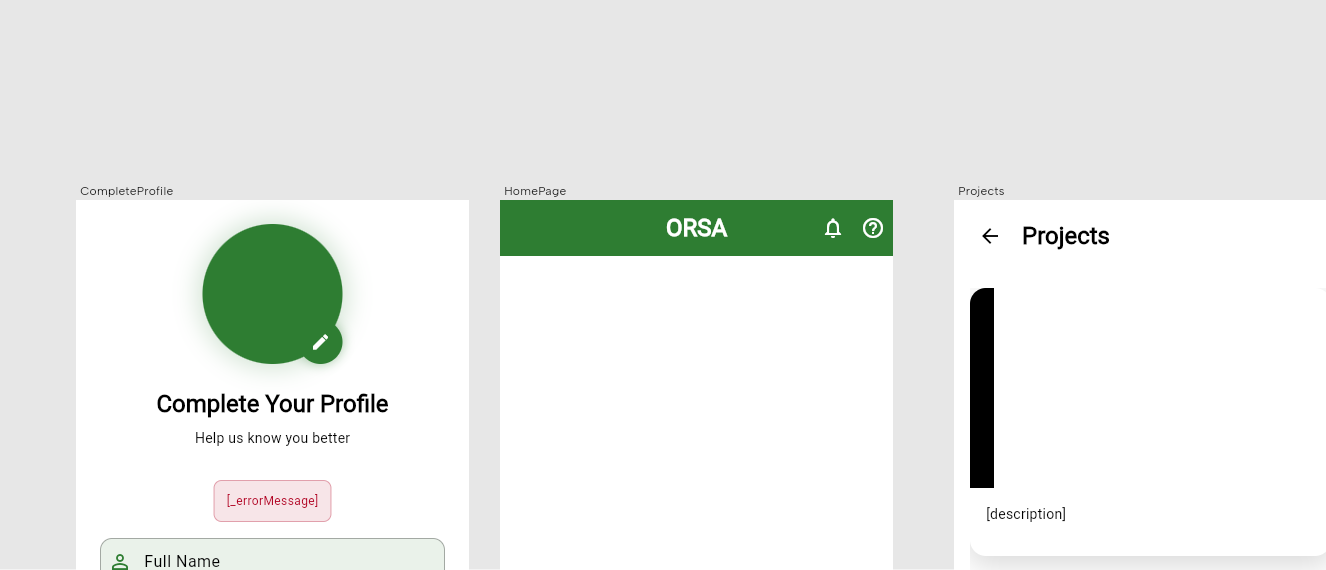
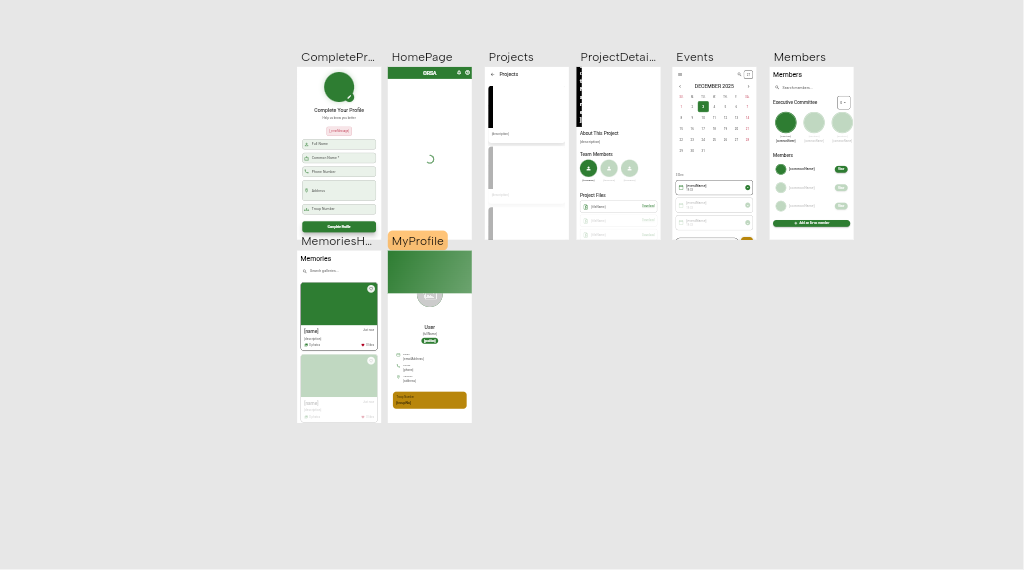
my profile page built

diff --git a/lib/pages/my_profile.dart b/lib/pages/my_profile.dart
@@ -1,0 +1,312 @@
+import 'package:flutter/material.dart';
+import 'package:nowa_runtime/nowa_runtime.dart';
+import 'package:supabase_flutter/supabase_flutter.dart';
+
+@NowaGenerated()
+class MyProfile extends StatefulWidget {
+  @NowaGenerated({'loader': 'auto-constructor'})
+  const MyProfile({super.key});
+
+  @override
+  State<MyProfile> createState() {
+    return _MyProfileState();
+  }
+}
+
+@NowaGenerated()
+class _MyProfileState extends State<MyProfile> {
+  late Future<Map<String, dynamic>?> profileFuture;
+
+  @override
+  void initState() {
+    super.initState();
+    profileFuture = _fetchCurrentUserProfile();
+  }
+
+  Future<Map<String, dynamic>?> _fetchCurrentUserProfile() async {
+    try {
+      final userId = Supabase.instance.client.auth.currentUser!.id;
+      if (userId == null) {
+        return null;
+      }
+      final response = await Supabase.instance.client
+          .from('profiles')
+          .select()
+          .eq('id', userId)
+          .single();
+      return response as Map<String, dynamic>;
+    } catch (e) {
+      return null;
+    }
+  }
+
+  @override
+  Widget build(BuildContext context) {
+    return Scaffold(
+      body: SafeArea(
+        child: FutureBuilder<Map<String, dynamic>?>(
+          future: profileFuture,
+          builder: (context, snapshot) {
+            if (snapshot.connectionState == ConnectionState.waiting) {
+              return Center(
+                child: CircularProgressIndicator(
+                  color: Theme.of(context).colorScheme.primary,
+                ),
+              );
+            }
+            if (!snapshot.hasData || snapshot.data == null) {
+              return Center(
+                child: Text(
+                  'Unable to load profile',
+                  style: Theme.of(context).textTheme.bodyLarge,
+                ),
+              );
+            }
+            final profile = snapshot.data;
+            final avatarUrl = profile?['avatar_url'] as String?;
+            final commonName = profile?['common_name'] as String? ?? 'User';
+            final fullName = profile?['full_name'] as String?;
+            final position = profile?['position'] as String? ?? '';
+            final userRole = profile?['user_role'] as String? ?? '';
+            final emailAddress = profile?['email_address'] as String?;
+            final phone = profile?['phone'] as String?;
+            final address = profile?['address'] as String?;
+            final troupNo = profile?['troup_no'] as String?;
+            return CustomScrollView(
+              slivers: [
+                SliverAppBar(
+                  expandedHeight: 200,
+                  pinned: true,
+                  backgroundColor: Theme.of(context).colorScheme.surface,
+                  flexibleSpace: FlexibleSpaceBar(
+                    background: Container(
+                      decoration: BoxDecoration(
+                        gradient: LinearGradient(
+                          begin: Alignment.topLeft,
+                          end: Alignment.bottomRight,
+                          colors: [
+                            Theme.of(context).colorScheme.primary,
+                            Theme.of(
+                              context,
+                            ).colorScheme.primary.withValues(alpha: 0.7),
+                          ],
+                        ),
+                      ),
+                    ),
+                  ),
+                ),
+                SliverToBoxAdapter(
+                  child: Padding(
+                    padding: const EdgeInsets.symmetric(horizontal: 24),
+                    child: Column(
+                      children: [
+                        Transform.translate(
+                          offset: const Offset(0, -60),
+                          child: Container(
+                            decoration: BoxDecoration(
+                              shape: BoxShape.circle,
+                              border: Border.all(
+                                color: Theme.of(context).colorScheme.surface,
+                                width: 4,
+                              ),
+                            ),
+                            child: avatarUrl != null
+                                ? CircleAvatar(
+                                    radius: 60,
+                                    backgroundImage: NetworkImage(avatarUrl!),
+                                  )
+                                : CircleAvatar(
+                                    radius: 60,
+                                    backgroundColor: Theme.of(
+                                      context,
+                                    ).colorScheme.primaryContainer,
+                                    child: Text(
+                                      commonName.isNotEmpty
+                                          ? commonName[0].toUpperCase()
+                                          : '?',
+                                      style: Theme.of(context)
+                                          .textTheme
+                                          .displayMedium
+                                          ?.copyWith(
+                                            color: Theme.of(
+                                              context,
+                                            ).colorScheme.onPrimaryContainer,
+                                          ),
+                                    ),
+                                  ),
+                          ),
+                        ),
+                        const SizedBox(height: 16),
+                        Text(
+                          commonName,
+                          style: Theme.of(context).textTheme.headlineSmall
+                              ?.copyWith(fontWeight: FontWeight.bold),
+                          textAlign: TextAlign.center,
+                        ),
+                        if (fullName != null && fullName!.isNotEmpty) ...[
+                          const SizedBox(height: 4),
+                          Text(
+                            fullName!,
+                            style: Theme.of(context).textTheme.bodyMedium
+                                ?.copyWith(
+                                  color: Theme.of(
+                                    context,
+                                  ).colorScheme.onSurfaceVariant,
+                                ),
+                            textAlign: TextAlign.center,
+                          ),
+                        ],
+                        const SizedBox(height: 8),
+                        Container(
+                          padding: const EdgeInsets.symmetric(
+                            horizontal: 12,
+                            vertical: 6,
+                          ),
+                          decoration: BoxDecoration(
+                            color: Theme.of(
+                              context,
+                            ).colorScheme.primaryContainer,
+                            borderRadius: BorderRadius.circular(20),
+                          ),
+                          child: Text(
+                            position.isNotEmpty ? position : userRole,
+                            style: Theme.of(context).textTheme.labelMedium
+                                ?.copyWith(
+                                  color: Theme.of(
+                                    context,
+                                  ).colorScheme.onPrimaryContainer,
+                                  fontWeight: FontWeight.w600,
+                                ),
+                          ),
+                        ),
+                        const SizedBox(height: 24),
+                        if (emailAddress != null ||
+                            phone != null ||
+                            address != null) ...[
+                          Container(
+                            padding: const EdgeInsets.all(16),
+                            decoration: BoxDecoration(
+                              color: Theme.of(
+                                context,
+                              ).colorScheme.surfaceContainerHighest,
+                              borderRadius: BorderRadius.circular(16),
+                            ),
+                            child: Column(
+                              children: [
+                                if (emailAddress != null &&
+                                    emailAddress!.isNotEmpty)
+                                  Padding(
+                                    padding: const EdgeInsets.only(bottom: 12),
+                                    child: _buildInfoRow(
+                                      context,
+                                      'Email',
+                                      emailAddress!,
+                                      Icons.email_outlined,
+                                    ),
+                                  ),
+                                if (phone != null && phone!.isNotEmpty)
+                                  Padding(
+                                    padding: const EdgeInsets.only(bottom: 12),
+                                    child: _buildInfoRow(
+                                      context,
+                                      'Phone',
+                                      phone!,
+                                      Icons.phone_outlined,
+                                    ),
+                                  ),
+                                if (address != null && address!.isNotEmpty)
+                                  _buildInfoRow(
+                                    context,
+                                    'Address',
+                                    address!,
+                                    Icons.location_on_outlined,
+                                  ),
+                              ],
+                            ),
+                          ),
+                          const SizedBox(height: 24),
+                        ],
+                        if (troupNo != null && troupNo!.isNotEmpty)
+                          Container(
+                            width: double.infinity,
+                            padding: const EdgeInsets.all(16),
+                            decoration: BoxDecoration(
+                              color: Theme.of(
+                                context,
+                              ).colorScheme.secondaryContainer,
+                              borderRadius: BorderRadius.circular(16),
+                            ),
+                            child: Column(
+                              crossAxisAlignment: CrossAxisAlignment.start,
+                              children: [
+                                Text(
+                                  'Troop Number',
+                                  style: Theme.of(context).textTheme.labelMedium
+                                      ?.copyWith(
+                                        color: Theme.of(
+                                          context,
+                                        ).colorScheme.onSecondaryContainer,
+                                      ),
+                                ),
+                                const SizedBox(height: 8),
+                                Text(
+                                  troupNo!,
+                                  style: Theme.of(context).textTheme.titleMedium
+                                      ?.copyWith(
+                                        color: Theme.of(
+                                          context,
+                                        ).colorScheme.onSecondaryContainer,
+                                        fontWeight: FontWeight.bold,
+                                      ),
+                                ),
+                              ],
+                            ),
+                          ),
+                        const SizedBox(height: 32),
+                      ],
+                    ),
+                  ),
+                ),
+              ],
+            );
+          },
+        ),
+      ),
+    );
+  }
+
+  Widget _buildInfoRow(
+    BuildContext context,
+    String label,
+    String value,
+    IconData icon,
+  ) {
+    return Row(
+      crossAxisAlignment: CrossAxisAlignment.start,
+      children: [
+        Icon(icon, size: 20, color: Theme.of(context).colorScheme.primary),
+        const SizedBox(width: 12),
+        Expanded(
+          child: Column(
+            crossAxisAlignment: CrossAxisAlignment.start,
+            children: [
+              Text(
+                label,
+                style: Theme.of(context).textTheme.labelSmall?.copyWith(
+                  color: Theme.of(context).colorScheme.onSurfaceVariant,
+                ),
+              ),
+              const SizedBox(height: 4),
+              Text(
+                value,
+                style: Theme.of(
+                  context,
+                ).textTheme.bodyMedium?.copyWith(fontWeight: FontWeight.w500),
+              ),
+            ],
+          ),
+        ),
+      ],
+    );
+  }
+}

diff --git a/lib/models/profile.dart b/lib/models/profile.dart
@@ -1,0 +1,56 @@
+import 'package:nowa_runtime/nowa_runtime.dart';
+
+@NowaGenerated()
+class Profile {
+  Profile({
+    required this.id,
+    required this.createdAt,
+    this.fullName,
+    this.commonName,
+    this.avatarUrl,
+    this.address,
+    this.emailAddress,
+    this.phone,
+    this.troupNo,
+    required this.userRole,
+    required this.position,
+  });
+
+  factory Profile.fromJson(Map<String, dynamic> json) {
+    return Profile(
+      id: json['id'] as String,
+      createdAt: json['created_at'] as String,
+      fullName: json['full_name'] as String?,
+      commonName: json['common_name'] as String?,
+      avatarUrl: json['avatar_url'] as String?,
+      address: json['address'] as String?,
+      emailAddress: json['email_address'] as String?,
+      phone: json['phone'] as String?,
+      troupNo: json['troup_no'] as String?,
+      userRole: json['user_role'] as String,
+      position: json['position'] as String,
+    );
+  }
+
+  final String id;
+
+  final String createdAt;
+
+  final String? fullName;
+
+  final String? commonName;
+
+  final String? avatarUrl;
+
+  final String? address;
+
+  final String? emailAddress;
+
+  final String? phone;
+
+  final String? troupNo;
+
+  final String userRole;
+
+  final String position;
+}
